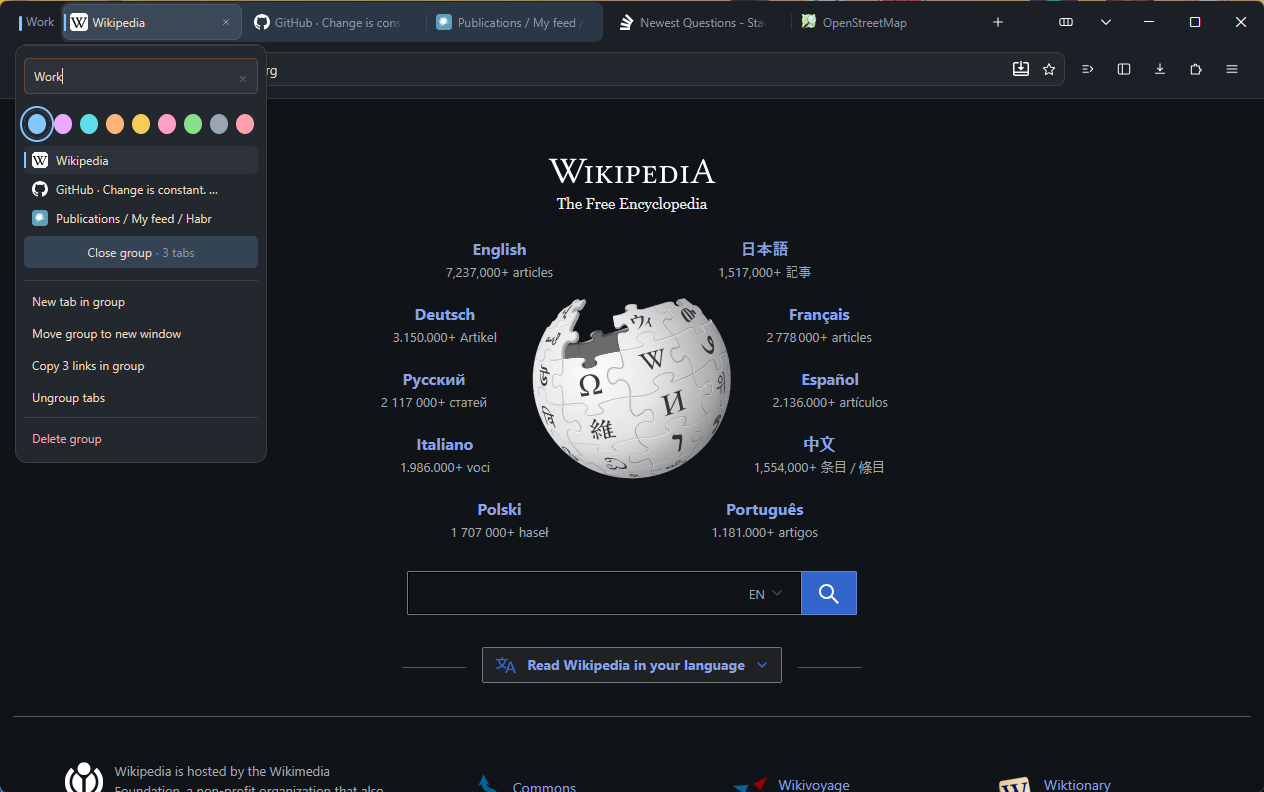
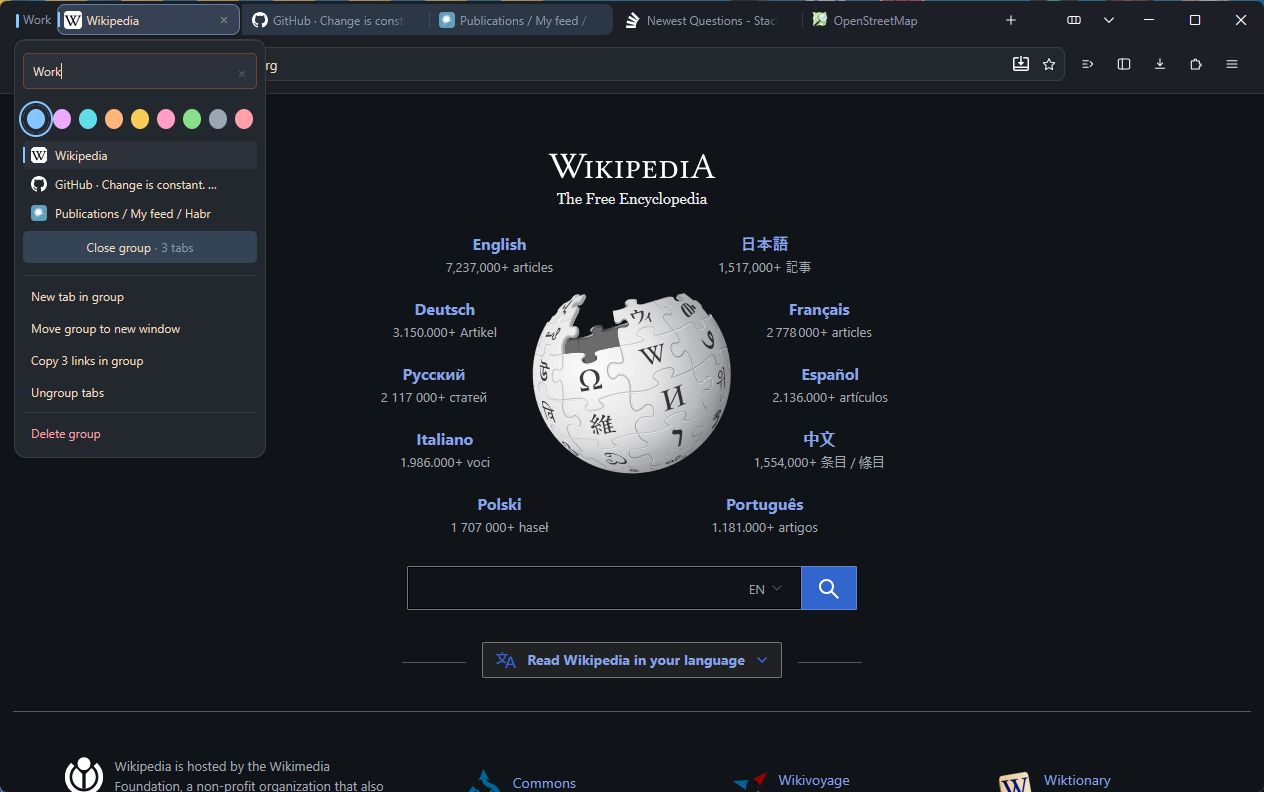
Tab strip: even spacing, tabs actually thinner, selection inside a group fixed
- The strip height comes from --tab-min-height where the engine declares
  --tabstrip-min-height, above #tabbrowser-tabs: setting it only on the
  strip left the plate as tall as before with empty space around it
- The group pool now matches the plates exactly: same height, and it ends
  on their corners instead of stopping short of the last tab
- The active tab inside a group is lifted out of the pool: the group fill
  no longer covers its plate, the edge and the border carry the colour
- Tighter gaps around the group marker, so they match the gap between tabs
- README screenshots retaken

diff --git a/src/browser/themes/shared/vantara/tabs.css b/src/browser/themes/shared/vantara/tabs.css
@@ -15,6 +15,14 @@
   min-height: calc(var(--vn-tab-height) + var(--vn-space-3)) !important;
 }
 
+/* Высоту полосы движок считает из --tab-min-height там, где объявляет
+   --tabstrip-min-height, — выше по дереву, чем #tabbrowser-tabs. Если
+   задать высоту только на полосе вкладок, пластина остаётся прежней,
+   а вокруг неё появляется пустое поле. */
+:root {
+  --tab-min-height: var(--vn-tab-height) !important;
+}
+
 #tabbrowser-tabs {
   --tab-min-height: var(--vn-tab-height) !important;
   --tab-border-radius: var(--vn-radius-md) !important;
@@ -163,7 +171,9 @@
    между вкладками. Поэтому заливка получается сплошной, без вычислений в
    скрипте. */
 .tab-group-line {
-  inset-block: var(--vn-space-1) !important;
+  /* Ровно по пластине: движок держит эту черту тоньше и ниже вкладки,
+     и растянутая заливка выпирала бы из ряда. */
+  inset-block: var(--tab-margin-block) !important;
   height: auto !important;
   border-radius: 0 !important;
   /* На светлой панели тот же процент цвета читается слабее, чем на тёмной. */
@@ -173,21 +183,37 @@
   transition: background-color var(--vn-dur-base) var(--vn-ease-standard);
 }
 
-/* Скруглены только внешние края лужицы: внутри группы заливка сплошная. */
+/* Внутри группы заливка переходит через промежутки между пластинами,
+   а по краям обрывается ровно по их углам: движок иначе не доводит её
+   до конца последней вкладки, и правый край выглядит обрубленным. */
 tab-group > .tabbrowser-tab:first-of-type .tab-group-line {
+  inset-inline-start: 0 !important;
   border-start-start-radius: var(--vn-radius-md) !important;
   border-end-start-radius: var(--vn-radius-md) !important;
 }
 
 tab-group > .tabbrowser-tab:last-of-type .tab-group-line {
+  inset-inline-end: 0 !important;
   border-start-end-radius: var(--vn-radius-md) !important;
   border-end-end-radius: var(--vn-radius-md) !important;
 }
 
-/* Активная вкладка в группе держит её цвет на кромке: так видно, к какой
-   группе относится то, что открыто. */
+/* Активная вкладка поднята над лужицей: заливка группы лежала бы поверх
+   её пластины и гасила и кромку, и саму подсветку выбора. Связь с группой
+   держат кромка и рамка в цвете группы. */
 tab-group > .tabbrowser-tab .tab-background[selected] {
+  /* Цвет группы остаётся в самой пластине — иначе группа разрывается там,
+     где открыта вкладка. */
+  background-color: color-mix(in srgb,
+      var(--tab-group-color, var(--vn-accent)) 10%, var(--vn-bg-selected)) !important;
   background-image: linear-gradient(var(--tab-group-color), var(--tab-group-color)) !important;
+  border-color: color-mix(in srgb,
+      var(--tab-group-color, var(--vn-accent)) 40%, var(--vn-border)) !important;
+}
+
+tab-group > .tabbrowser-tab .tab-background[selected] > .tab-group-line {
+  background-color: transparent !important;
+  background-image: none !important;
 }
 
 /* Подчёркивание под ярлыком и счётчиком свёрнутой группы — та же черта,
@@ -206,7 +232,7 @@ tab-group > .tabbrowser-tab .tab-background[selected] {
      это перестаёт работать. */
   min-width: 0 !important;
   text-align: start !important;
-  padding-inline: var(--vn-space-2) !important;
+  padding-inline: var(--vn-space-1) !important;
   border-radius: var(--vn-radius-xs) !important;
   background-color: transparent !important;
   box-shadow: none !important;
@@ -221,7 +247,7 @@ tab-group > .tabbrowser-tab .tab-background[selected] {
   content: "";
   display: inline-block;
   width: 3px;
-  height: 15px;
+  height: 14px;
   margin-inline-end: var(--vn-space-2);
   vertical-align: middle;
   border-radius: var(--vn-radius-pill);
@@ -231,6 +257,13 @@ tab-group > .tabbrowser-tab .tab-background[selected] {
 .tab-group-label:hover {
   background-color: var(--vn-bg-hover) !important;
   color: var(--vn-fg-primary) !important;
+}
+
+/* Поля вокруг метки движок делает шире, чем промежуток между пластинами,
+   и группа отрывается от соседей. */
+.tab-group-label-container {
+  margin-inline-start: var(--vn-space-1) !important;
+  padding-inline-end: var(--vn-space-1) !important;
 }
 
 /* Свёрнутая группа — та же палочка, но с лёгкой заливкой: видно, что за

diff --git a/ui/chrome/vantara/tabs.css b/ui/chrome/vantara/tabs.css
@@ -15,6 +15,14 @@
   min-height: calc(var(--vn-tab-height) + var(--vn-space-3)) !important;
 }
 
+/* Высоту полосы движок считает из --tab-min-height там, где объявляет
+   --tabstrip-min-height, — выше по дереву, чем #tabbrowser-tabs. Если
+   задать высоту только на полосе вкладок, пластина остаётся прежней,
+   а вокруг неё появляется пустое поле. */
+:root {
+  --tab-min-height: var(--vn-tab-height) !important;
+}
+
 #tabbrowser-tabs {
   --tab-min-height: var(--vn-tab-height) !important;
   --tab-border-radius: var(--vn-radius-md) !important;
@@ -163,7 +171,9 @@
    между вкладками. Поэтому заливка получается сплошной, без вычислений в
    скрипте. */
 .tab-group-line {
-  inset-block: var(--vn-space-1) !important;
+  /* Ровно по пластине: движок держит эту черту тоньше и ниже вкладки,
+     и растянутая заливка выпирала бы из ряда. */
+  inset-block: var(--tab-margin-block) !important;
   height: auto !important;
   border-radius: 0 !important;
   /* На светлой панели тот же процент цвета читается слабее, чем на тёмной. */
@@ -173,21 +183,37 @@
   transition: background-color var(--vn-dur-base) var(--vn-ease-standard);
 }
 
-/* Скруглены только внешние края лужицы: внутри группы заливка сплошная. */
+/* Внутри группы заливка переходит через промежутки между пластинами,
+   а по краям обрывается ровно по их углам: движок иначе не доводит её
+   до конца последней вкладки, и правый край выглядит обрубленным. */
 tab-group > .tabbrowser-tab:first-of-type .tab-group-line {
+  inset-inline-start: 0 !important;
   border-start-start-radius: var(--vn-radius-md) !important;
   border-end-start-radius: var(--vn-radius-md) !important;
 }
 
 tab-group > .tabbrowser-tab:last-of-type .tab-group-line {
+  inset-inline-end: 0 !important;
   border-start-end-radius: var(--vn-radius-md) !important;
   border-end-end-radius: var(--vn-radius-md) !important;
 }
 
-/* Активная вкладка в группе держит её цвет на кромке: так видно, к какой
-   группе относится то, что открыто. */
+/* Активная вкладка поднята над лужицей: заливка группы лежала бы поверх
+   её пластины и гасила и кромку, и саму подсветку выбора. Связь с группой
+   держат кромка и рамка в цвете группы. */
 tab-group > .tabbrowser-tab .tab-background[selected] {
+  /* Цвет группы остаётся в самой пластине — иначе группа разрывается там,
+     где открыта вкладка. */
+  background-color: color-mix(in srgb,
+      var(--tab-group-color, var(--vn-accent)) 10%, var(--vn-bg-selected)) !important;
   background-image: linear-gradient(var(--tab-group-color), var(--tab-group-color)) !important;
+  border-color: color-mix(in srgb,
+      var(--tab-group-color, var(--vn-accent)) 40%, var(--vn-border)) !important;
+}
+
+tab-group > .tabbrowser-tab .tab-background[selected] > .tab-group-line {
+  background-color: transparent !important;
+  background-image: none !important;
 }
 
 /* Подчёркивание под ярлыком и счётчиком свёрнутой группы — та же черта,
@@ -206,7 +232,7 @@ tab-group > .tabbrowser-tab .tab-background[selected] {
      это перестаёт работать. */
   min-width: 0 !important;
   text-align: start !important;
-  padding-inline: var(--vn-space-2) !important;
+  padding-inline: var(--vn-space-1) !important;
   border-radius: var(--vn-radius-xs) !important;
   background-color: transparent !important;
   box-shadow: none !important;
@@ -221,7 +247,7 @@ tab-group > .tabbrowser-tab .tab-background[selected] {
   content: "";
   display: inline-block;
   width: 3px;
-  height: 15px;
+  height: 14px;
   margin-inline-end: var(--vn-space-2);
   vertical-align: middle;
   border-radius: var(--vn-radius-pill);
@@ -231,6 +257,13 @@ tab-group > .tabbrowser-tab .tab-background[selected] {
 .tab-group-label:hover {
   background-color: var(--vn-bg-hover) !important;
   color: var(--vn-fg-primary) !important;
+}
+
+/* Поля вокруг метки движок делает шире, чем промежуток между пластинами,
+   и группа отрывается от соседей. */
+.tab-group-label-container {
+  margin-inline-start: var(--vn-space-1) !important;
+  padding-inline-end: var(--vn-space-1) !important;
 }
 
 /* Свёрнутая группа — та же палочка, но с лёгкой заливкой: видно, что за
